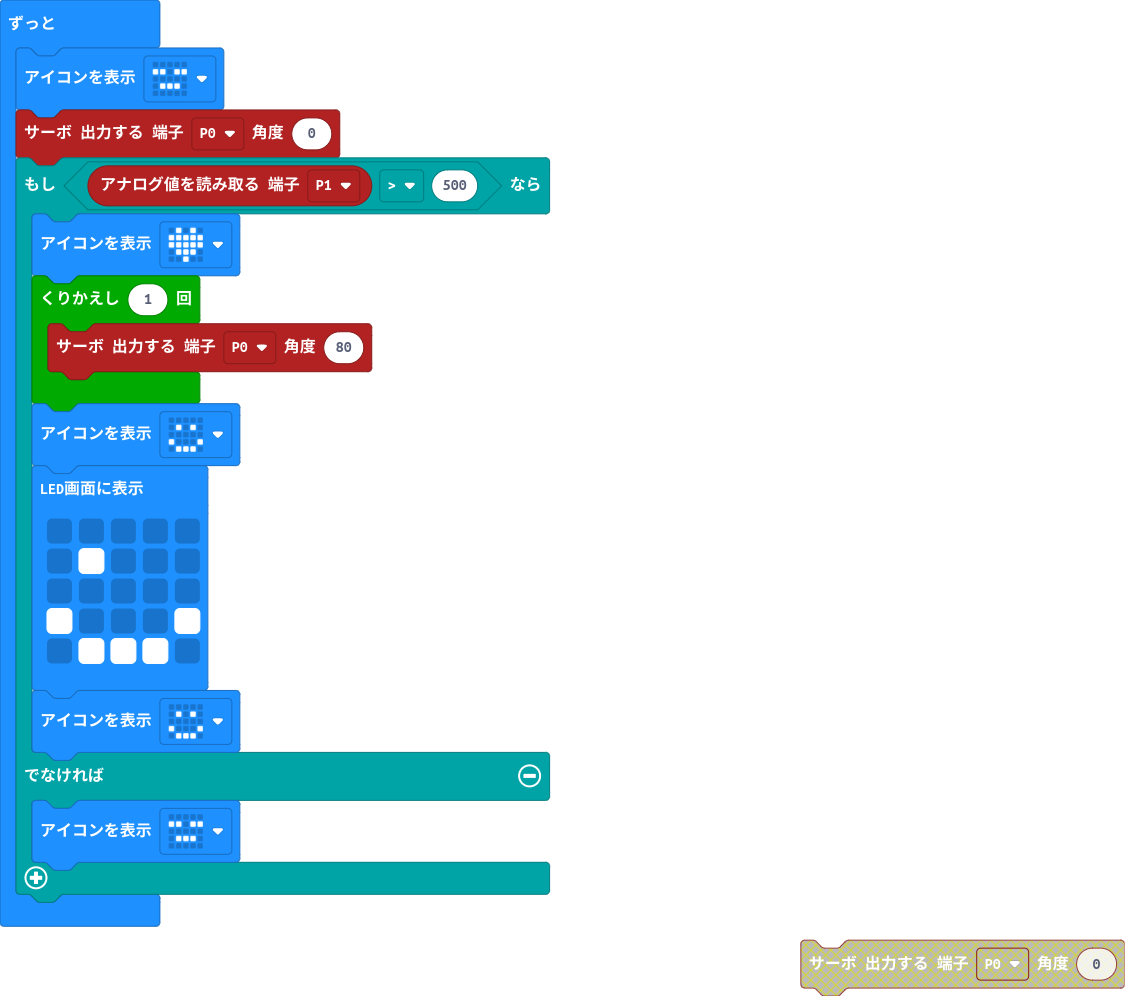
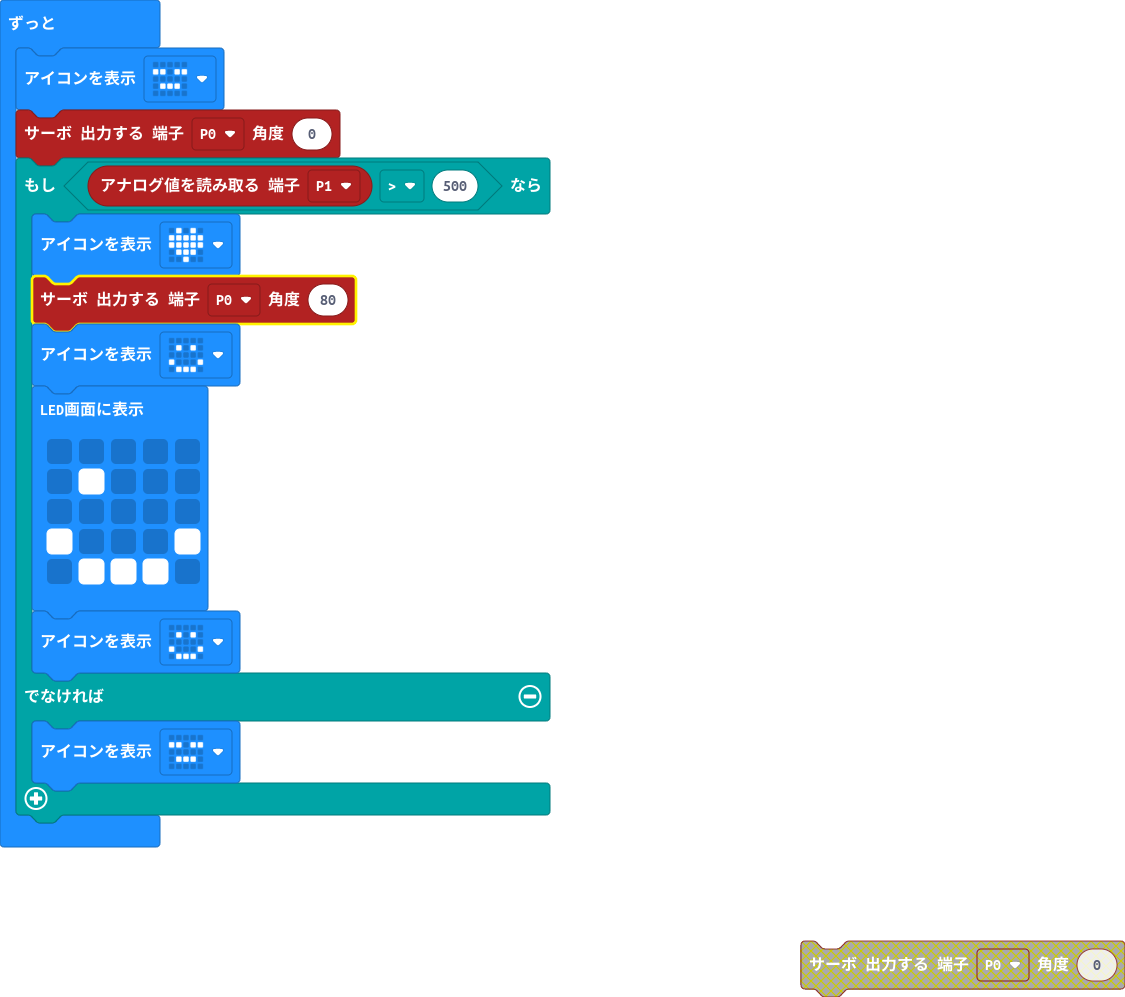
更新 main.blocks, main.ts

diff --git a/main.ts b/main.ts
@@ -3,9 +3,7 @@ basic.forever(function () {
     pins.servoWritePin(AnalogPin.P0, 0)
     if (pins.analogReadPin(AnalogPin.P1) > 500) {
         basic.showIcon(IconNames.Heart)
-        for (let index = 0; index < 1; index++) {
-            pins.servoWritePin(AnalogPin.P0, 80)
-        }
+        pins.servoWritePin(AnalogPin.P0, 80)
         basic.showIcon(IconNames.Happy)
         basic.showLeds(`
             . . . . .
